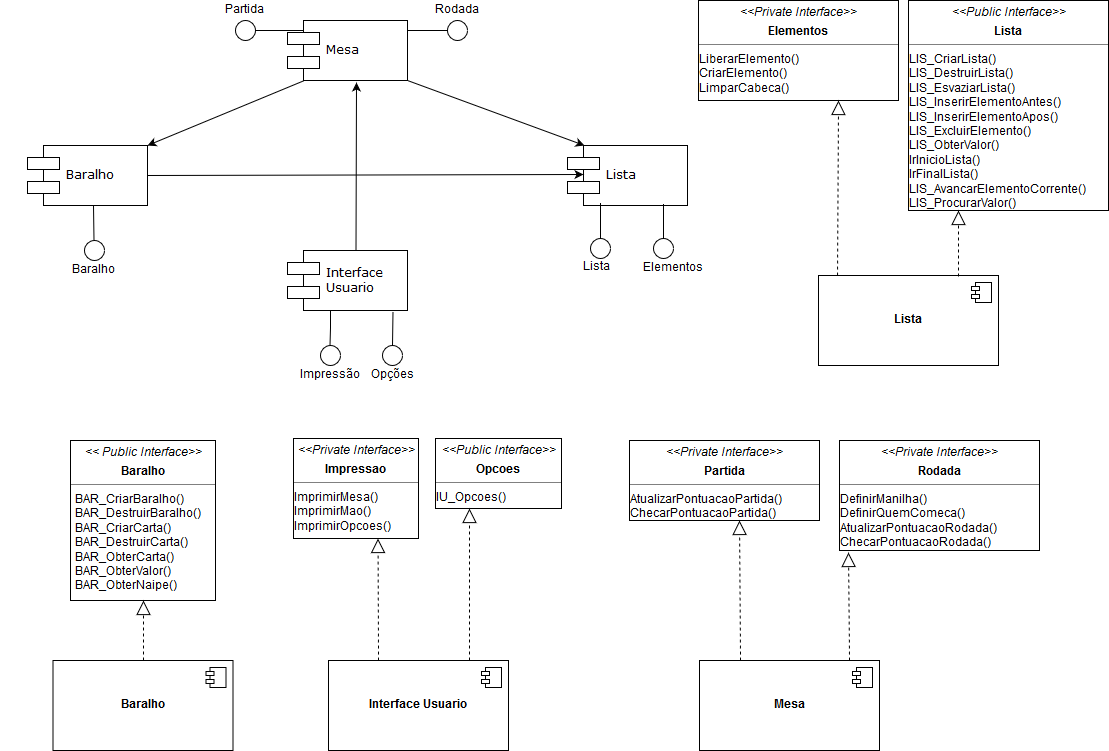
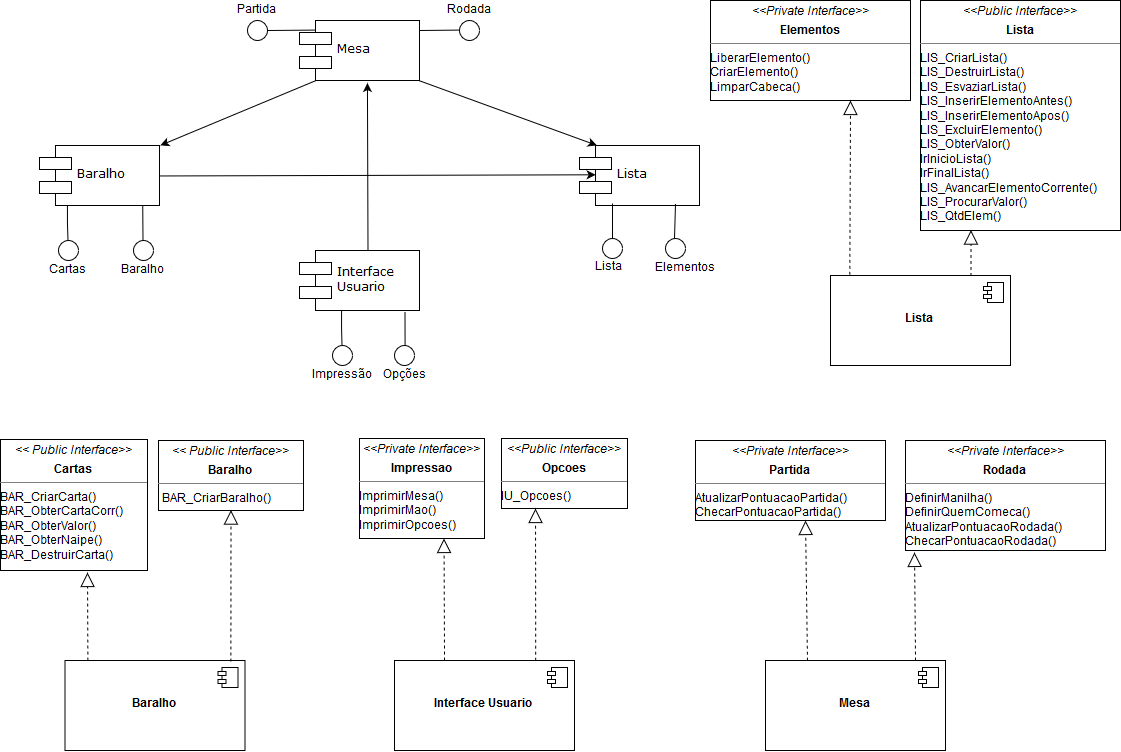
Backup 10/05 13h50
Vetor com cartas embaralhadas agora está na main.
CriarBaralho recebe o vetor de cartas embaralhadas.

diff --git a/Fontes/BARALHO.c b/Fontes/BARALHO.c
@@ -29,7 +29,7 @@
 
 
 /************ PROTÓTIPOS DAS FUNÇÕES ENCAPSULADAS NO MÓDULO ***************/
-//não há funções encapsuladas no módulo
+//nao ha funcoes encapsuladas no modulo
 
 /***************************************************************************
 *  $TC Tipo de dados: BAR tpCarta
@@ -47,65 +47,22 @@ typedef struct BAR_tagCarta {
 /***************************************************************************
 *  Função: BAR  &Criar baralho
 ***************************************************************************/
-LIS_tppLista BAR_CriarBaralho() {
+LIS_tppLista BAR_CriarBaralho(BAR_tppCarta vtCartas[]) {
 
 	int i; //contador
-	int valor = 0, naipe = 0;
-
+	
 	//cria uma lista retornando um ponteiro pra cabeca da lista
 	LIS_tppLista pCabecaBaralho = LIS_CriarLista (BAR_DestruirCarta) ;
-		
-	//declara um vetor (um vetor eh um ponteiro) pra tipo carta
-	BAR_tppCarta VetorAux[TAM] ;
-	
+
 	//declara uma variável que armazena a condição de
 	//retorno de funções de manipulação da lista
 	LIS_tpCondRet condRetLista;
-
-	//preenchendo o vetor de cartas de forma ordenada
-	for (i = 0; i < TAM; i++, valor++) {
-		
-		//faz a transformacao de int pra tipo especifico
-		BAR_tpValorCarta Valor = (BAR_tpValorCarta) valor;
-		BAR_tpNaipeCarta Naipe = (BAR_tpNaipeCarta) naipe;
-
-		BAR_tppCarta pCarta = BAR_CriarCarta(Valor, Naipe);
-		VetorAux[i] = pCarta;
-
-		if (i == 9 || i == 19 || i == 29) {
-
-			//reinicia o preenchimento do valor de 0 a 9
-			valor = -1 ;
-			//passa pro proximo naipe
-			naipe++;
-
-		} //fim if
-	} //fim for
-	
-	//função suporte da rand que faz gerar números diferentes sempre
-	srand ((unsigned)time(NULL));
-
-	//embaralhando o vetor (troca os indices aleatoriamente)
-	for (i = 0; i < TAM; i++){
-
-		//declara um ponteiro pra um tipo carta
-		BAR_tppCarta pCartaAux;
-		
-		//gera um número aleatorio entre 0 e 39
-		int random = rand() % TAM ;
-
-		//embaralhando os indices
-		pCartaAux = VetorAux[i] ;
-		VetorAux[i] = VetorAux[random] ;
-		VetorAux[random] = pCartaAux ;
-		
-	} //fim for
 	
 	//preenche um por um usando o vetor embaralhado
-	for (i = 0; i < TAM; i++){
+	for (i = 0; i < 27; i++){
 		
 		BAR_tppCarta pCarta;
-		pCarta = VetorAux[i] ;
+		pCarta = vtCartas[i] ;
 	
 		//é inserido um elemento na lista Baralho e 
 		//seu valor é um ponteiro pra um tipo Carta
@@ -146,19 +103,6 @@ BAR_tppCarta BAR_CriarCarta (BAR_tpValorCarta valor, BAR_tpNaipeCarta naipe) {
 
 
 /***************************************************************************
-*  Função: BAR  &Destruir baralho
-***************************************************************************/
-void BAR_DestruirBaralho(void * pCabecaBaralho) {
-
-	#ifdef _DEBUG
-		assert( pCabecaBaralho != NULL ) ;
-	#endif
-
-	free(pCabecaBaralho) ;	
-} /************* Fim função: BAR &Destruir baralho ************************/
-
-
-/***************************************************************************
 *  Função: BAR  &Destruir carta
 ***************************************************************************/
 void BAR_DestruirCarta(void * pCarta) {
@@ -174,13 +118,10 @@ void BAR_DestruirCarta(void * pCarta) {
 /***************************************************************************
 *  Função: BAR  &Obter carta
 ***************************************************************************/
-BAR_tppCarta BAR_ObterCarta(LIS_tppLista pCabecaBaralho) {
+BAR_tppCarta BAR_ObterCartaCorr(LIS_tppLista pCabecaBaralho) {
 
 	//declara e aloca memoria pra um ponteiro pra tipo carta
-	BAR_tppCarta pCarta = (BAR_tppCarta)malloc(sizeof(BAR_tpCarta)) ;
-
-	//ponteiro pra tipo carta recebe o pValor do ElemLista
-	pCarta = (BAR_tppCarta)LIS_ObterValor (pCabecaBaralho) ;
+	BAR_tppCarta pCarta = (BAR_tppCarta)LIS_ObterValor (pCabecaBaralho) ;
 
 	return pCarta;
 } /***************** Fim função: BAR &Obter carta **************************/
@@ -213,6 +154,6 @@ BAR_tpValorCarta BAR_ObterValor(BAR_tppCarta pCarta) {
 
 
 /***********  CÓDIGO DAS FUNÇÕES ENCAPSULADAS NO MÓDULO  *******************/
-//não há funções encapsuladas no módulo
+//nao ha funcoes encapsuladas no modulo
 
 /************ FIM DO MÓDULO DE IMPLEMENTAÇÃO: BAR Baralho ******************/

diff --git a/Fontes/BARALHO.h b/Fontes/BARALHO.h
@@ -24,6 +24,7 @@
 ***************************************************************************/
 
 #include "LISTA.h"
+#define TAM 40
 
 #if defined( BARALHO_OWN )
    #define BARALHO_EXT
@@ -105,7 +106,7 @@ typedef enum {
 *     (ponteiro para o tipo lista). Este ponteiro será utilizado pelas
 *     funções que manipulem este baralho. 
 ***************************************************************************/
-LIS_tppLista BAR_CriarBaralho();
+LIS_tppLista BAR_CriarBaralho(BAR_tppCarta vtCartas[TAM]);
 
 
 /***************************************************************************
@@ -134,19 +135,6 @@ void BAR_DestruirCarta(void * pCarta);
 
 
 /***************************************************************************
-*  $FC Função: BAR  &Destruir Baralho
-*
-*  $ED Descrição da função
-*     Destrói a lista baralho fornecida.
-*     O parâmetro ponteiro para a lista não é modificado.
-*     Se ocorrer algum erro durante a destruição, a lista resultará
-*     estruturalmente incorreta.
-*     OBS. não existe previsão para possíveis falhas de execução.
-***************************************************************************/
-void BAR_DestruirBaralho(void * pBaralho);
-
-
-/***************************************************************************
 *  $FC Função: BAR  &Obter Carta
 *
 *  $EP Parâmetros
@@ -155,7 +143,7 @@ void BAR_DestruirBaralho(void * pBaralho);
 *  $ED Descrição da função
 *     Obtém um ponteiro pra um tipo carta criado.
 ***************************************************************************/
-BAR_tppCarta BAR_ObterCarta(LIS_tppLista pCabecaBaralho) ;
+BAR_tppCarta BAR_ObterCartaCorr(LIS_tppLista pCabecaBaralho) ;
 
 
 /***************************************************************************

diff --git a/Fontes/TestBAR.c b/Fontes/TestBAR.c
@@ -28,7 +28,6 @@
 
 static const char RESET_BARALHO_CMD     [ ] = "=resetteste"       ;
 static const char CRIAR_BARALHO_CMD     [ ] = "=criarbaralho"     ;
-static const char DESTRUIR_BARALHO_CMD  [ ] = "=destruirbaralho"  ;
 static const char CRIAR_CARTA_CMD       [ ] = "=criarcarta"       ;
 static const char DESTRUIR_CARTA_CMD    [ ] = "=destruircarta"    ;
 static const char OBTER_NAIPE_CMD		[ ] = "=obternaipe"		  ;
@@ -120,7 +119,7 @@ TST_tpCondRet TST_EfetuarComando( char * ComandoTeste )  {
 		}//fim if
 
 		//criarbaralho retorna ponteiro pra tpLista
-		vtBaralhos[inxBaralho] = BAR_CriarBaralho( ) ;
+		BAR_CriarBaralho(&vtCartas[inxCarta]) ;
 
 		//assertiva de saida do conteudo do ponteiro
 		//retorna TST_CondRetErro se os dois ponteiros forem diferentes
@@ -130,28 +129,6 @@ TST_tpCondRet TST_EfetuarComando( char * ComandoTeste )  {
 						 "Erro na criacao do ponteiro do baralho."  ) ;
 
   } //fim ativa: Testar CriarBaralho
-
-  //DESTRUIR BARALHO
-  //se o comando for "destruirbaralho"
-  else if ( strcmp( ComandoTeste , DESTRUIR_BARALHO_CMD ) == 0 ) {
-
-		//conta quantos parametros foram declarados
-		numLidos = LER_LerParametros( "i" , &inxBaralho ) ;
-
-		//assertiva de entrada dos parametros do comando
-		if ( (numLidos != 1) || (! ValidarInxBaralho( inxBaralho , NAO_VAZIO )) )  {
-			return TST_CondRetParm ;
-		}//fim if
-
-		//destruicao do conteudo do vetor
-		BAR_DestruirBaralho( vtBaralhos[ inxBaralho ] ) ;
-		vtBaralhos[ inxBaralho ] = NULL ;
-
-		//assertiva de saida do conteudo do ponteiro
-		return TST_CompararPonteiroNulo( 0 , vtBaralhos[ inxBaralho ] ,
-						"Erro na destruicao do ponteiro do baralho."  ) ;
-
-  } //fim ativa: Testar DestruirBaralho
 
   //CRIAR CARTA
   //se o comando for "criarcarta"
